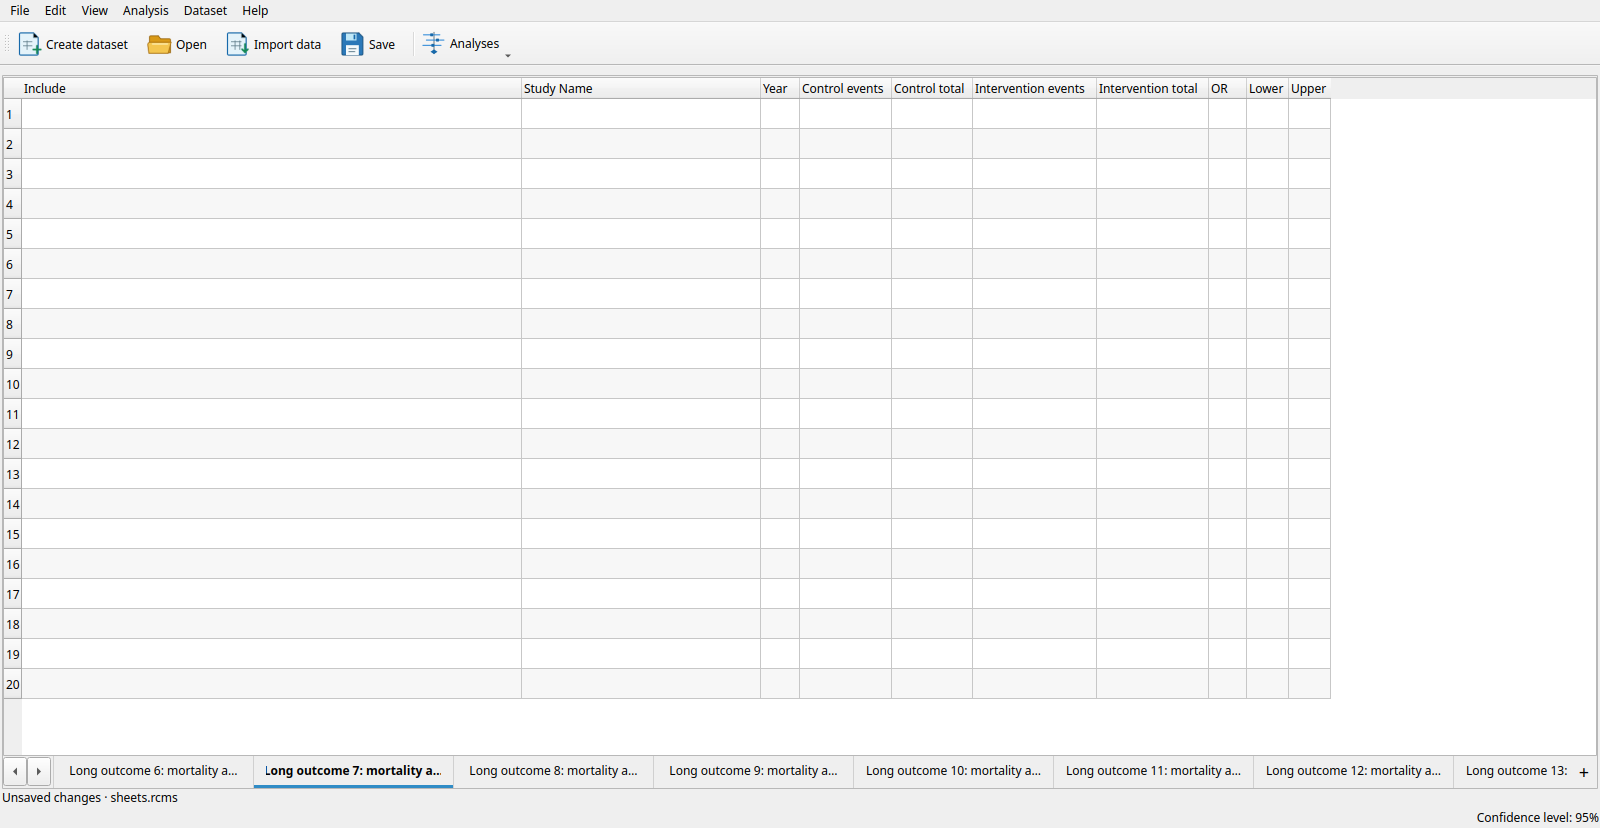
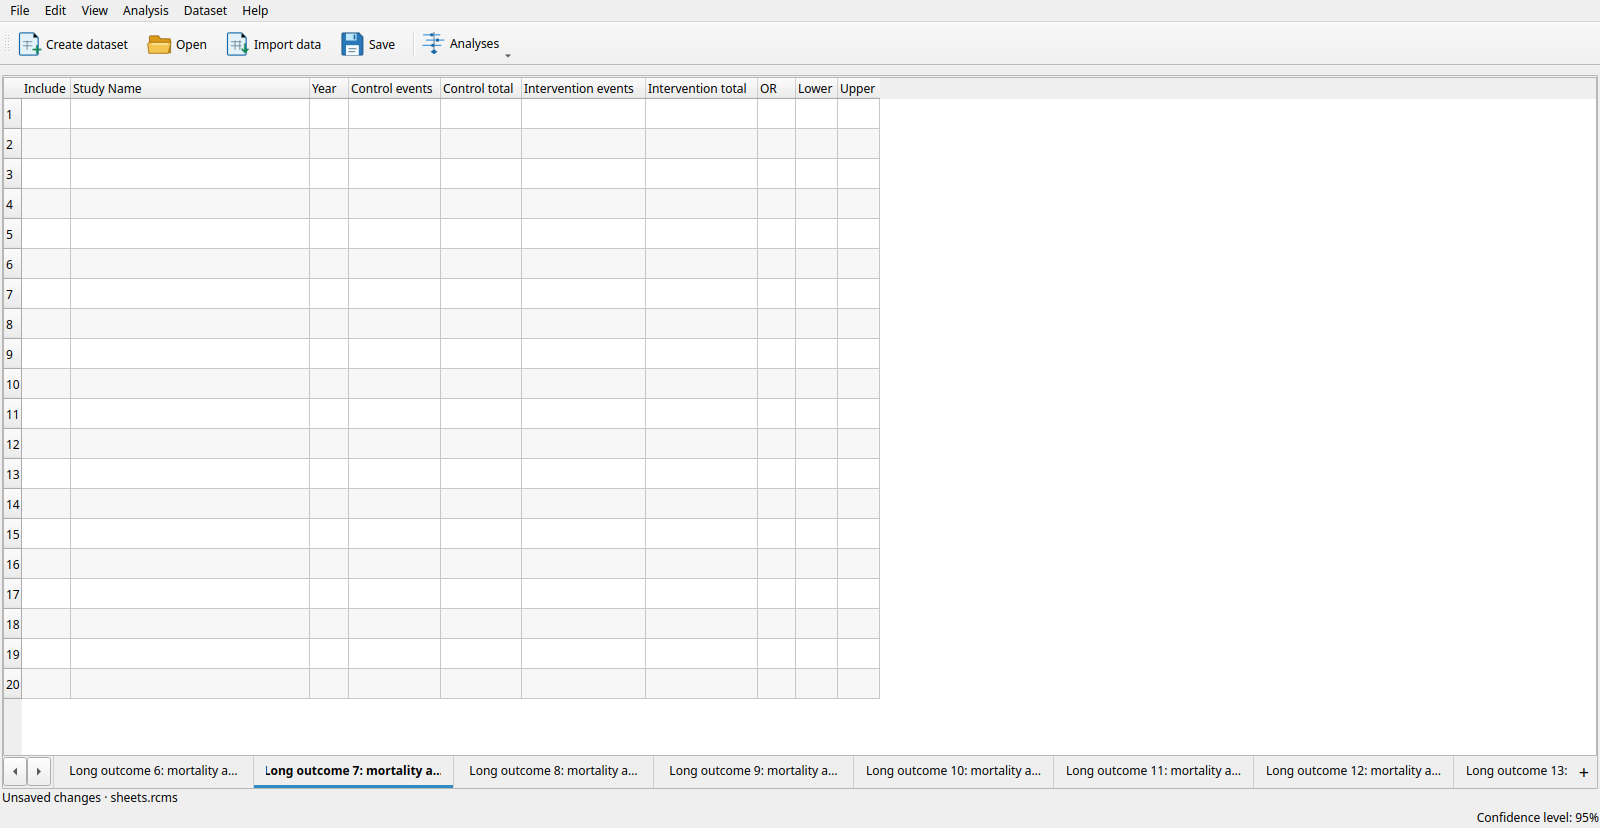
Prove both thumb drag directions and document deliberate crawl coverage

Changed region(s): [[0.1875, 0.0906, 0.8438, 0.1208], [0.0312, 0.0906, 0.0938, 0.1208]]

diff --git a/tests/e2e/desktop_driver.py b/tests/e2e/desktop_driver.py
@@ -826,7 +826,8 @@ def verify_sheet_strip(app, window, screens):
     assert window.add_sheet_button.visibleRegion().boundingRect().size() == window.add_sheet_button.size()
     assert window.sheet_strip.mapTo(window, QtCore.QPoint()).y() >= window.tableView.mapTo(window, window.tableView.rect().bottomLeft()).y()
     tabs.setCurrentIndex(0)
-    window.tableView.setColumnWidth(0, 500)
+    name_width = window.tableView.columnWidth(window.model.NAME)
+    window.tableView.setColumnWidth(window.model.NAME, 500)
     window.resize(1024, 700)
     app.processEvents()
     app.processEvents()
@@ -843,11 +844,21 @@ def verify_sheet_strip(app, window, screens):
     QTest.mouseRelease(grid_scroll, QtCore.Qt.MouseButton.LeftButton, pos=start + QtCore.QPoint(80, 0))
     assert grid_scroll.value() > before
     assert native_scroll.value() == grid_scroll.value()
+    grid_scroll.initStyleOption(option)
+    handle = grid_scroll.style().subControlRect(QtWidgets.QStyle.ComplexControl.CC_ScrollBar, option, QtWidgets.QStyle.SubControl.SC_ScrollBarSlider, grid_scroll)
+    start = handle.center()
+    before = grid_scroll.value()
+    QTest.mousePress(grid_scroll, QtCore.Qt.MouseButton.LeftButton, pos=start)
+    QTest.mouseMove(grid_scroll, start - QtCore.QPoint(40, 0), 100)
+    QTest.mouseRelease(grid_scroll, QtCore.Qt.MouseButton.LeftButton, pos=start - QtCore.QPoint(40, 0))
+    assert grid_scroll.value() < before
+    assert native_scroll.value() == grid_scroll.value()
     window.tableView.scrollTo(window.model.index(0, 0))
     app.processEvents()
     assert native_scroll.value() == grid_scroll.value() == 0
-    record_step("sheet-strip-grid-drag-1024", window)
+    record_step("sheet-strip-grid-drag-1024", window, study_name_width=500)
     assert window.grab().save(str(screens / "slice10-tabs-scrollbar-1024.png"))
+    window.tableView.setColumnWidth(window.model.NAME, name_width)
     window.resize(1600, 828)
     app.processEvents()
     app.processEvents()

diff --git a/src/rc_metastudio/main_window.py b/src/rc_metastudio/main_window.py
@@ -1458,7 +1458,6 @@ class MainWindow(QtWidgets.QMainWindow, _ui_main_window.Ui_MainWindow):
         self.sheet_tabs.setContextMenuPolicy(Qt.ContextMenuPolicy.CustomContextMenu)
         self.sheet_tabs.palette_stylesheet = """
             QTabBar { background: palette(window); border: 0; }
-            QTabBar::tear { image: none; width: 0; border: 0; background: palette(window); }
             QTabBar::tab { background: palette(window); color: palette(window-text);
                 border: 0; border-right: 1px solid palette(mid);
                 border-bottom: 3px solid transparent; padding: 6px 12px; }

diff --git a/.agents/skills/verify-rcms/features/projects.md b/.agents/skills/verify-rcms/features/projects.md
@@ -163,6 +163,9 @@ start-page import action with a controlled file-picker result.
   name-cell rectangle and nonuniform interior viewport pixels. `xlsx-import`
   repeats this rendering proof in light/dark palettes before grid capture.
 
-The `sheets` drive also proves inline rename and Escape/invalid-name recovery, adjacent add-button geometry, context Move left with undo, and full active-tab visibility across 20 long-named sheets. It captures the flat strip in light/dark palettes and overflow. The native grid scrollbar remains above the strip: Qt’s scrollbar-row widget API clips controls to the scrollbar extent.
+The `sheets` drive also proves inline rename and Escape/invalid-name recovery, adjacent add-button geometry, context Move left with undo, and full active-tab visibility across 20 long-named sheets. It captures the flat strip in light/dark palettes and overflow. A shared horizontal scrollbar in the strip follows the grid range and hides when the grid fits. The drive captures amino at 1024×700 with an expanded study-name column, drags the strip thumb in both directions, checks grid-to-strip scrolling, and asserts hidden-on-fit at 1600×828. The tab separators, content background and add button follow the light/dark palette.
 
 The overflow proof also narrows the window during inline rename and checks both tab/editor visibility and alignment. Arrow visibility is deferred out of the scroll-area range signal to avoid re-entering the active layout.
+
+
+`ui-crawl` deliberately captures each named surface once, in sections E, F, G, B, C, then retained shell section A. It uses selected real analysis drivers with their assertions intact for the specialized plots. Its index lists omissions and the scenario intentionally fails while D, H, I and J await the next run. This is a visual inventory, not full parameter or native-platform qualification.
